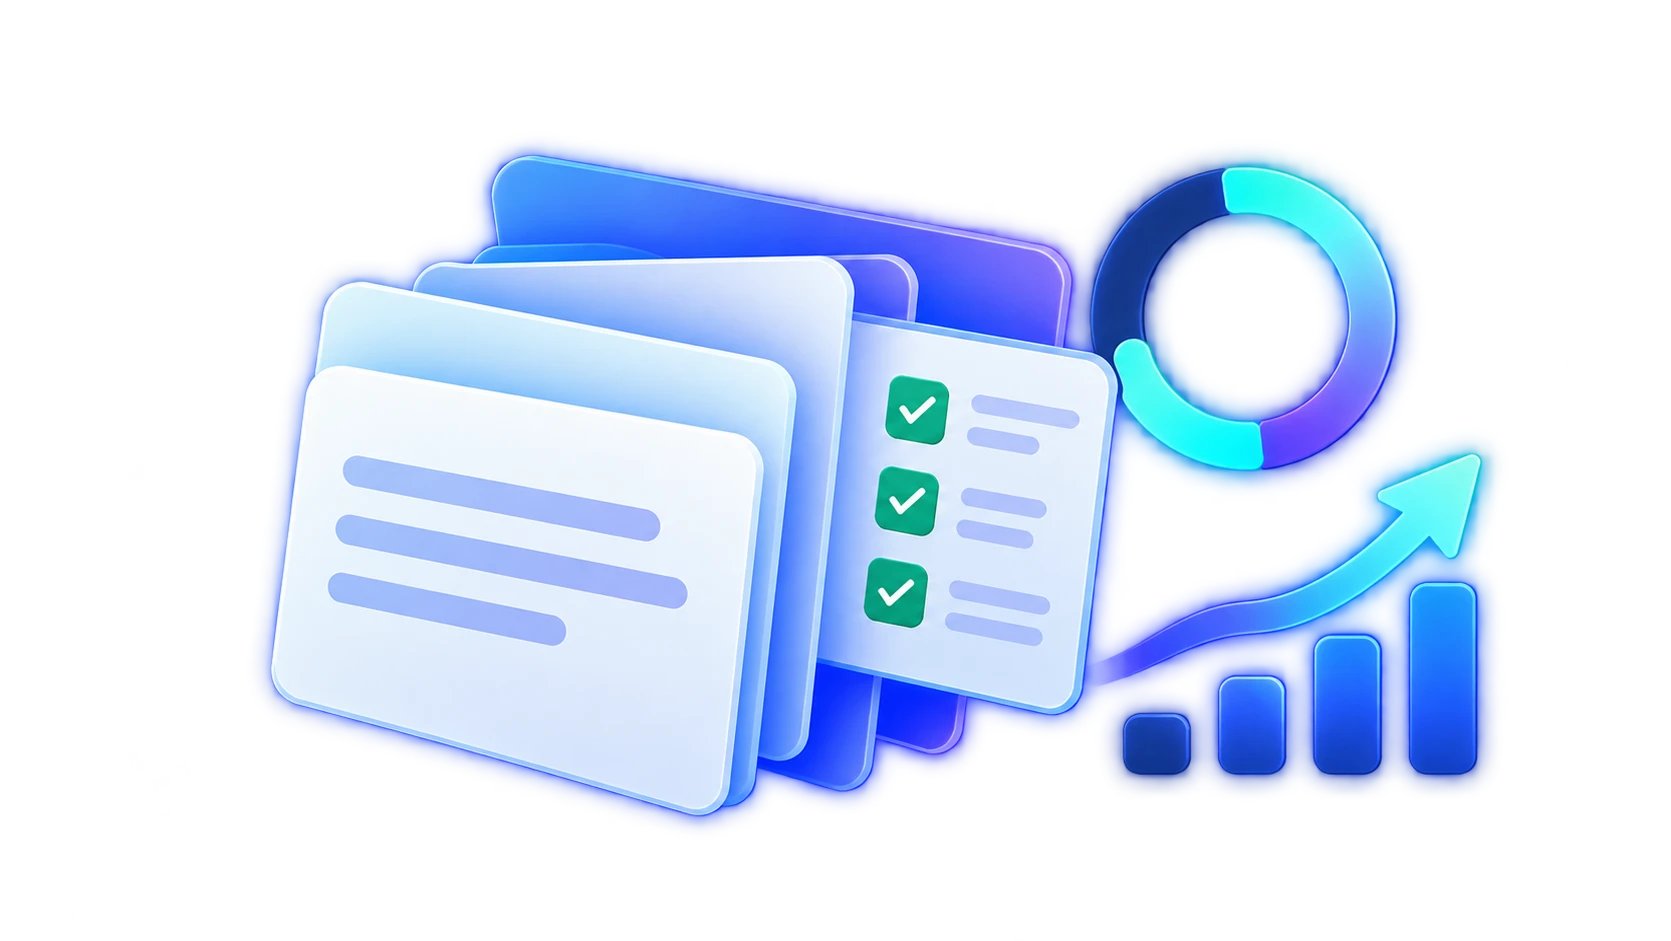
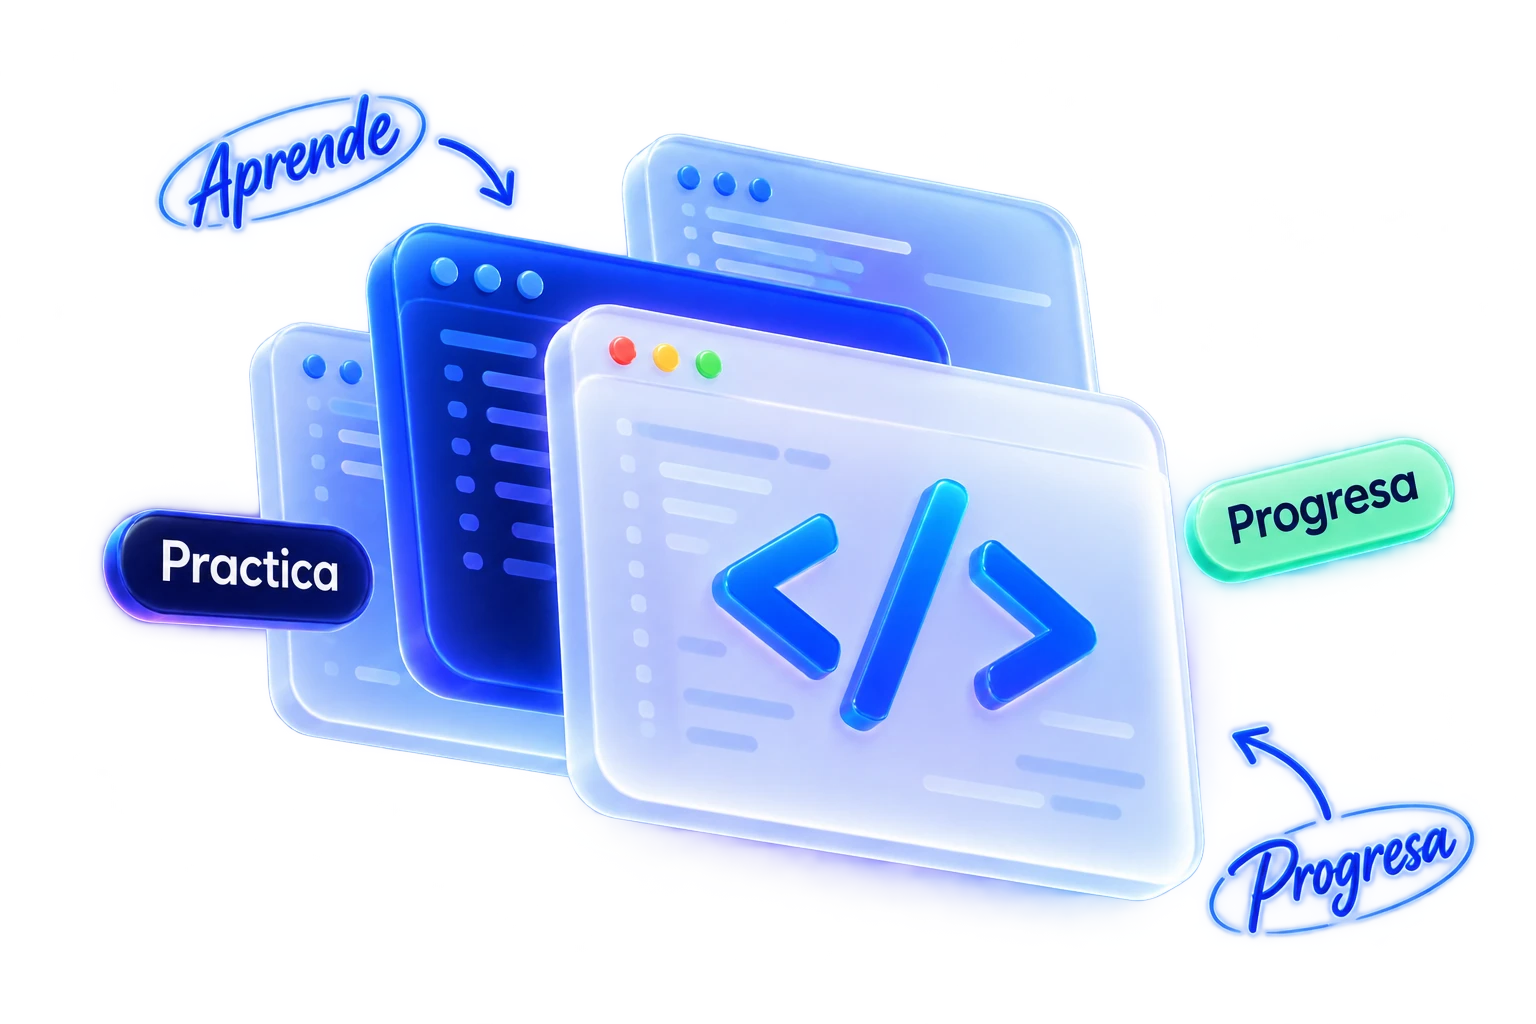
Update hero illustration asset
Refresh the homepage hero image to match the new WebP asset and correct the rendered dimensions in the landing page layout.

diff --git a/index.html b/index.html
@@ -81,7 +81,7 @@
           </div>
 
           <div class="hero-illustration d-none d-lg-block">
-            <img src="assets/img/hero-illustration.webp" alt="" width="1671" height="941">
+            <img src="assets/img/hero-illustration.webp" alt="" width="1536" height="1024">
           </div>
         </div>
       </section>
